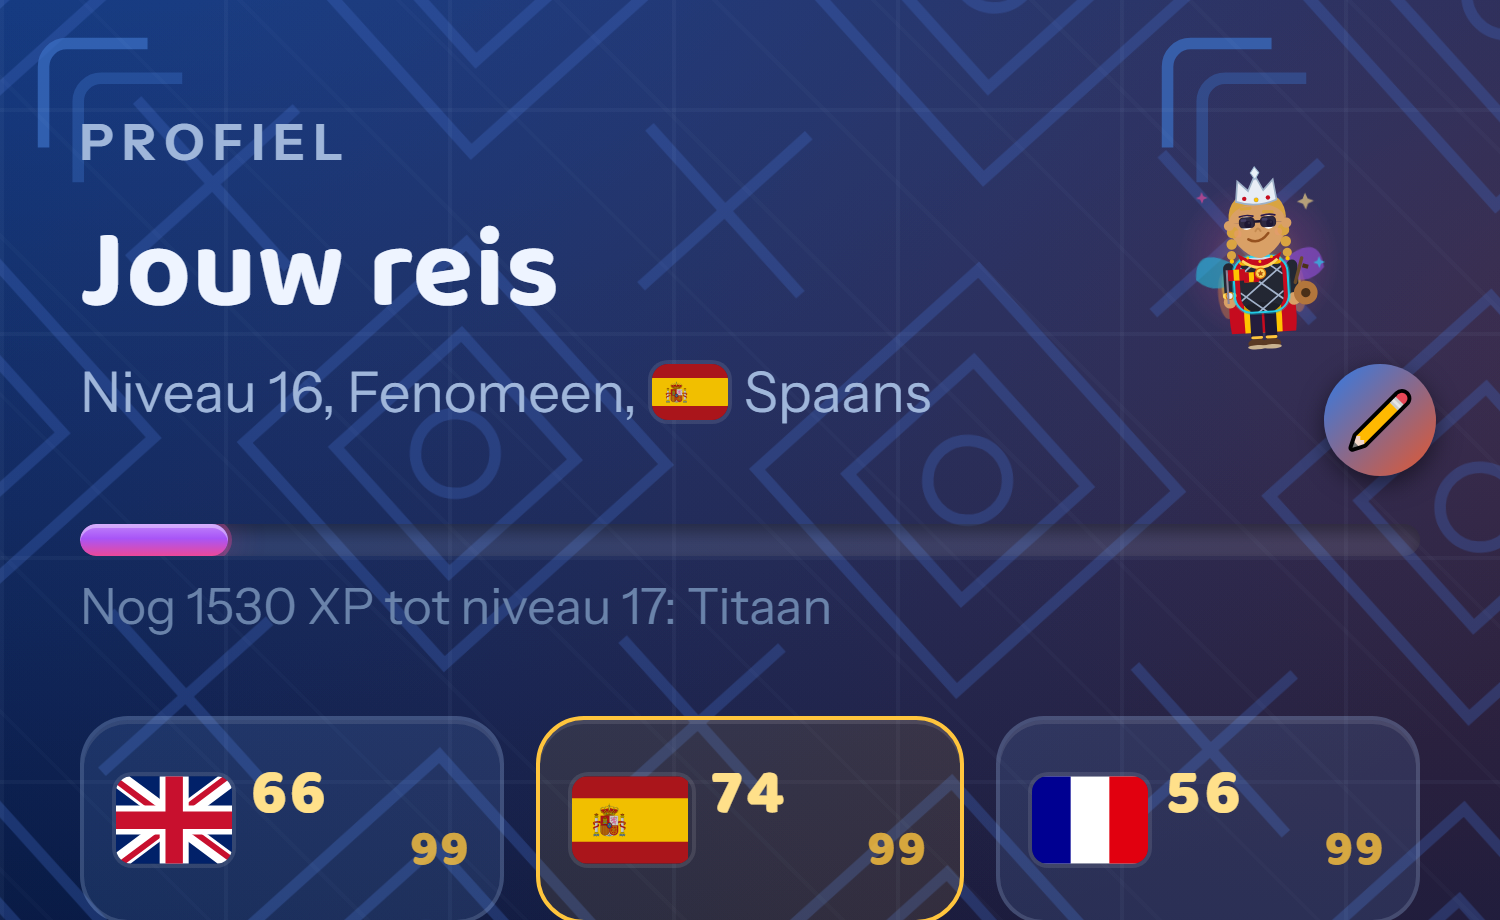
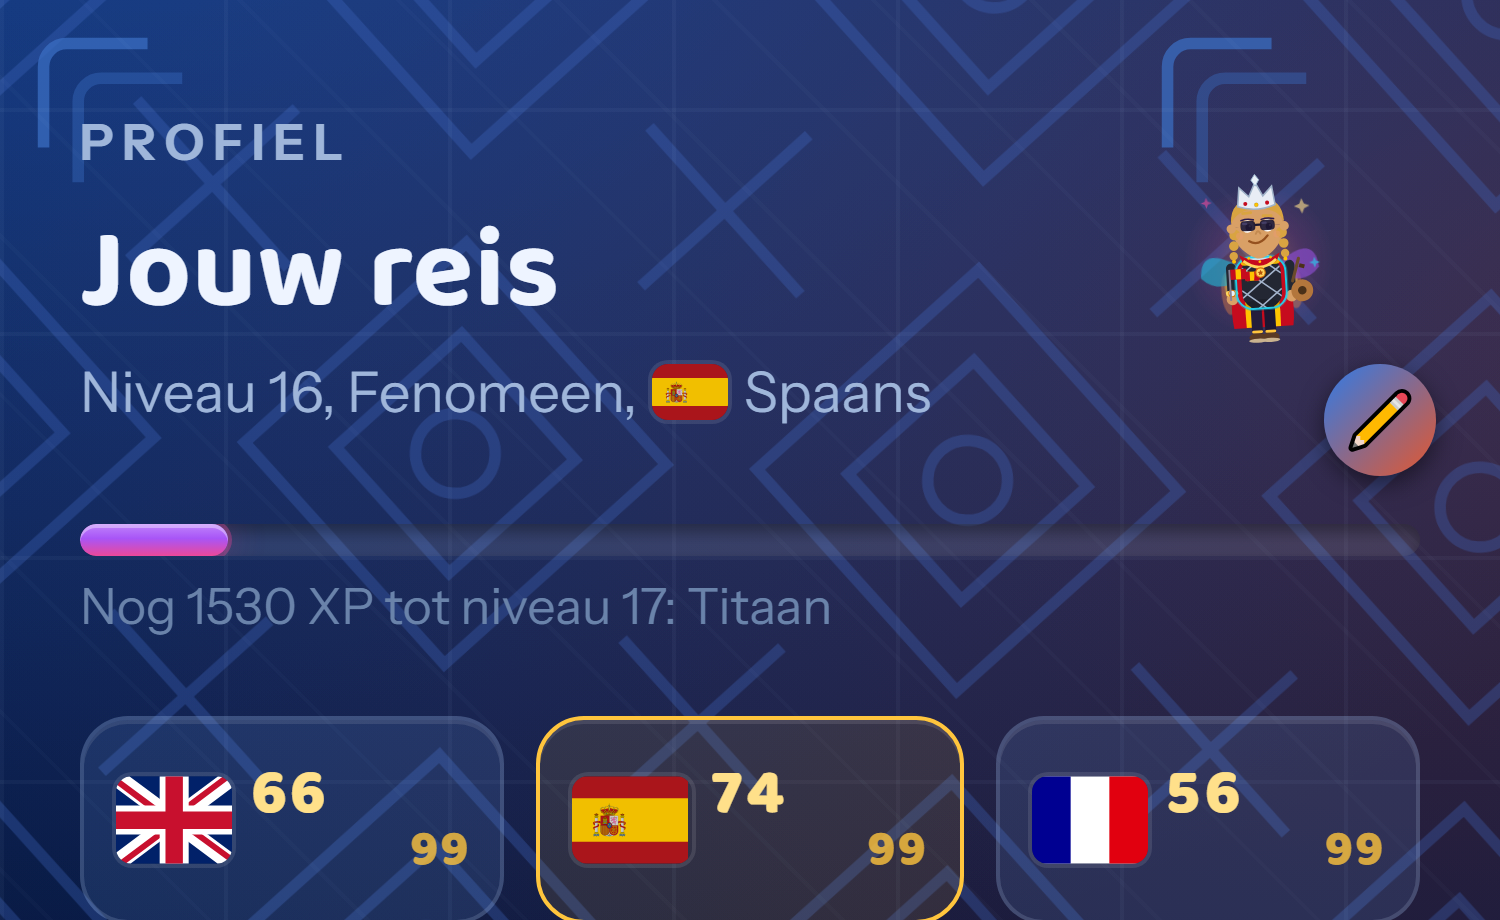
Acht groepen richtingen, en de laatste punten van het doel nagemeten
TWEE GROEPEN ERBIJ, zodat elke beslissing zijn richtingen heeft. De
personagekiezer: Raster om te vergelijken, Strook om te vegen, Groot om te
bewonderen, en de gedurfde Dobbelsteen die de rijen vervangt door één knop
die je telkens een heel nieuw personage geeft. En wat je nog niet hebt in je
garderobe: Silhouet, Nevel, Omtrek, en de gedurfde Kier waarbij een stuk
bijna helemaal verborgen blijft met één streep licht eroverheen.

Daarmee 31 richtingen over 8 groepen, elke groep met een gedurfde.

EN DE PUNTEN DIE ALLEEN BEWEERD WAREN, NU GEMETEN:

- de garderobe heeft zeven plekken, toont dertig stukken, laat zien wat je
  nog niet hebt en zegt bij elk stuk wat je ervoor moet doen
- vijf houdingen geven vijf verschillende tekeningen, te bekijken met
  ?houding=verslagen of ?houding=denk
- geen enkel rasterbeeld in de hele app: alles is svg, dus scherp op elk
  scherm
- alle zestien werelden hebben echt materiaal en geen kleurverloop
- drie spelers krijgen drie verschillende werelden, en dezelfde speler krijgt
  altijd dezelfde: een draai die per sessie verspringt zou geen eigen wereld
  zijn maar ruis

Onderweg was mijn eigen meting één keer te streng: hij rekende de vlaggen als
afbeelding, terwijl svg juist telt als tekening. Scherp op elk scherm is wat
het doel bedoelt, en dat zijn ze.

Changed region(s): [[0.7973, 0.1826, 0.8893, 0.3957]]

diff --git a/src/components/PersonaPicker.tsx b/src/components/PersonaPicker.tsx
@@ -11,6 +11,8 @@ import {
 } from './Avatar'
 import { GALERIJ } from './avatarGallery'
 import { BOUW_NAMEN, BROW_NAMEN, GEZICHT_NAMEN, NEUS_NAMEN, OOG_NAMEN } from './avatar-trekken'
+import { STANDAARD_STIJLEN, stijlUitLink } from '../stijlen'
+import { useStore } from '../store'
 import { sfx } from '../audio'
 
 /**
@@ -19,9 +21,31 @@ import { sfx } from '../audio'
  * maal acht wenkbrauwen maal acht neuzen maal acht monden maal acht bouwen.
  */
 export function PersonaPicker({ value, onChange }: { value: AvatarStyle; onChange: (p: AvatarStyle) => void }) {
+  const kiezerStijl = useStore((s) => stijlUitLink('kiezer') ?? s.stijlen.kiezer ?? STANDAARD_STIJLEN.kiezer)
   const set = (patch: Partial<AvatarStyle>) => {
     sfx('tap')
     onChange({ ...value, ...patch })
+  }
+
+  /* De dobbelsteen: één knop die een heel nieuw personage geeft. Bewust álle
+     onderdelen tegelijk, want een dobbelsteen die maar de helft gooit is geen
+     verrassing maar een storing. */
+  const gooi = () => {
+    sfx('tap')
+    const n = (max: number) => Math.floor(Math.random() * max)
+    onChange({
+      ...value,
+      face: n(8),
+      eyes: n(8),
+      brows: n(8),
+      nose: n(8),
+      mouth: n(8),
+      build: n(8),
+      hair: n(10),
+      skin: n(8),
+      hairColor: n(12),
+      outfit: n(10),
+    })
   }
 
   /**
@@ -43,11 +67,25 @@ export function PersonaPicker({ value, onChange }: { value: AvatarStyle; onChang
     /** het hele lijf laten zien in plaats van alleen het hoofd */
     heel?: boolean
   }) => (
-    <div>
+    <div style={{ display: kiezerStijl === 'dobbel' ? 'none' : undefined }}>
       <p className="eyebrow" style={{ fontSize: 11, marginBottom: 4, color: 'var(--text-faint)' }}>
         {titel}
       </p>
-      <div style={{ display: 'grid', gridTemplateColumns: 'repeat(auto-fill, minmax(60px, 1fr))', gap: 4 }}>
+      {/* Vier richtingen om dezelfde keuzes voor te leggen: een rooster om te
+          vergelijken, een strook om te vegen, groot om te bewonderen, of de
+          dobbelsteen die alles in één klap voor je kiest. */}
+      <div
+        className={kiezerStijl === 'strook' ? 'row no-scrollbar' : undefined}
+        style={
+          kiezerStijl === 'strook'
+            ? { gap: 4, overflowX: 'auto', paddingBottom: 4 }
+            : {
+                display: 'grid',
+                gridTemplateColumns: `repeat(auto-fill, minmax(${kiezerStijl === 'groot' ? 96 : 60}px, 1fr))`,
+                gap: 4,
+              }
+        }
+      >
         {namen.map((naam, i) => {
           const aan = ((value[sleutel] as number | undefined) ?? 0) === i
           return (
@@ -59,6 +97,8 @@ export function PersonaPicker({ value, onChange }: { value: AvatarStyle; onChang
               style={{
                 borderRadius: 12,
                 overflow: 'hidden',
+                flexShrink: 0,
+                minWidth: kiezerStijl === 'strook' ? 68 : undefined,
                 background: aan ? 'var(--hot-16)' : 'var(--surface-2)',
                 border: aan ? '2px solid var(--hot2)' : '1.5px solid var(--line)',
                 padding: '3px 0 2px',
@@ -253,6 +293,18 @@ export function PersonaPicker({ value, onChange }: { value: AvatarStyle; onChang
           <p className="faint" style={{ fontSize: 11, marginTop: 0 }}>
             Dit ben jij
           </p>
+          {/* De dobbelsteen, de gedurfde richting: geen rijen om door te lopen
+              maar één knop die je telkens een heel nieuw personage geeft. Wie
+              hem kiest krijgt de rijen niet meer te zien. */}
+          {kiezerStijl === 'dobbel' && (
+            <button
+              className="btn btn-primary"
+              style={{ marginTop: 8, padding: 12, fontSize: 14, minHeight: 44, maxWidth: 240 }}
+              onClick={gooi}
+            >
+              Gooi een nieuw personage
+            </button>
+          )}
         </div>
         <div className="col" style={{ gap: 8, minWidth: 0 }}>
           <div>

diff --git a/src/components/Garderobe.tsx b/src/components/Garderobe.tsx
@@ -5,6 +5,7 @@ import { isMeester, skillStand } from '../skills'
 import { levelProgress } from '../levels'
 import { KAST, PLEKKEN, heeft, kastStand, volgendStuk, type Stuk } from '../garderobe'
 import { Avatar } from './Avatar'
+import { STANDAARD_STIJLEN, stijlUitLink } from '../stijlen'
 import { sfx } from '../audio'
 
 /**
@@ -25,6 +26,7 @@ export function Garderobe() {
   const look = useStore((s) => s.avatarLook)
   const meester = useStore((s) => isMeester(s.progress[s.courseId]?.xp ?? 0))
   const taalNiveau = useStore((s) => skillStand(s.progress[s.courseId]?.xp ?? 0).level)
+  const kastStijl = useStore((s) => stijlUitLink('kast') ?? s.stijlen.kast ?? STANDAARD_STIJLEN.kast)
   const niveau = levelProgress(xpAll).level
   const stand = kastStand(niveau, meester)
   const volgende = volgendStuk(niveau, meester)
@@ -43,6 +45,7 @@ export function Garderobe() {
           border: `1.5px solid ${heb ? 'var(--line-gold)' : 'var(--line)'}`,
           padding: '4px 2px 3px',
           textAlign: 'center',
+          position: 'relative',
         }}
       >
         <div
@@ -52,8 +55,18 @@ export function Garderobe() {
             display: 'flex',
             justifyContent: 'center',
             alignItems: 'flex-start',
-            // wat je nog niet hebt is een silhouet: je ziet de vorm, niet de pracht
-            filter: heb ? undefined : 'brightness(0) opacity(0.34)',
+            /* Wat je nog niet hebt, laat zien dát het er is zonder al te
+               verklappen hoe mooi het is. Vier richtingen, want dit is precies
+               het soort beslissing waar smaak over gaat. */
+            filter: heb
+              ? undefined
+              : kastStijl === 'nevel'
+                ? 'blur(3px) grayscale(0.7) opacity(0.5)'
+                : kastStijl === 'omtrek'
+                  ? 'brightness(0) opacity(0.22) drop-shadow(0 0 1px var(--text))'
+                  : kastStijl === 'kier'
+                    ? 'brightness(0) opacity(0.12)'
+                    : 'brightness(0) opacity(0.34)',
           }}
         >
           <Avatar
@@ -65,6 +78,20 @@ export function Garderobe() {
             meester={stuk.vanaf >= 99}
           />
         </div>
+        {!heb && kastStijl === 'kier' && (
+          /* één streep licht over het verborgen stuk: je weet dat er iets is */
+          <span
+            aria-hidden
+            style={{
+              position: 'absolute',
+              left: 0,
+              right: 0,
+              top: 24,
+              height: 2,
+              background: 'linear-gradient(90deg, transparent, var(--goud-50), transparent)',
+            }}
+          />
+        )}
         <p style={{ fontSize: 11, fontWeight: 700, color: heb ? 'var(--text)' : 'var(--text-faint)', lineHeight: 1.15 }}>
           {stuk.naam}
         </p>

diff --git a/src/stijlen.ts b/src/stijlen.ts
@@ -62,7 +62,23 @@ export const GROEI_STIJLEN: Richting[] = [
   { id: 'omslag', naam: 'Omslag', kern: 'Het scherm klapt om als een tegel en de nieuwe wereld staat er', gedurfd: true },
 ]
 
-export type StijlSleutel = 'xp' | 'levelup' | 'arena' | 'breuk' | 'materiaal' | 'groei'
+/** Hoe de personagekiezer zijn keuzes voorlegt */
+export const KIEZER_STIJLEN: Richting[] = [
+  { id: 'raster', naam: 'Raster', kern: 'Alle varianten in een rooster, zodat je in één blik vergelijkt' },
+  { id: 'strook', naam: 'Strook', kern: 'Per trek één rij die je opzij veegt, rustiger en minder hoog' },
+  { id: 'groot', naam: 'Groot', kern: 'Minder tegels naast elkaar, maar elk gezicht flink groter' },
+  { id: 'dobbel', naam: 'Dobbelsteen', kern: 'Geen rijen maar één knop die je telkens een heel nieuw personage geeft', gedurfd: true },
+]
+
+/** Hoe je ziet wat je nog niet verdiend hebt in de garderobe */
+export const KAST_STIJLEN: Richting[] = [
+  { id: 'silhouet', naam: 'Silhouet', kern: 'Zwart silhouet: je ziet de vorm, niet de pracht' },
+  { id: 'nevel', naam: 'Nevel', kern: 'Wazig en bleek, alsof het er al hangt maar nog niet scherp is' },
+  { id: 'omtrek', naam: 'Omtrek', kern: 'Alleen de contour, als een tekening die nog moet worden ingekleurd' },
+  { id: 'kier', naam: 'Kier', kern: 'Bijna helemaal verborgen, met één streep licht eroverheen', gedurfd: true },
+]
+
+export type StijlSleutel = 'xp' | 'levelup' | 'arena' | 'breuk' | 'materiaal' | 'groei' | 'kiezer' | 'kast'
 
 export const STANDAARD_STIJLEN: Record<StijlSleutel, string> = {
   xp: 'klassiek',
@@ -71,6 +87,8 @@ export const STANDAARD_STIJLEN: Record<StijlSleutel, string> = {
   breuk: 'scherven',
   materiaal: 'waas',
   groei: 'aangroeien',
+  kiezer: 'raster',
+  kast: 'silhouet',
 }
 
 /** Een stijl uit de link halen, om te proeven of vast te leggen */

diff --git a/src/components/StijlKiezer.tsx b/src/components/StijlKiezer.tsx
@@ -5,6 +5,8 @@ import {
   ARENA_STIJLEN,
   BREUK_STIJLEN,
   GROEI_STIJLEN,
+  KAST_STIJLEN,
+  KIEZER_STIJLEN,
   LEVELUP_STIJLEN,
   MATERIAAL_STIJLEN,
   STANDAARD_STIJLEN,
@@ -22,7 +24,7 @@ import { sfx } from '../audio'
  * moment af zodat je het ziet voordat je kiest.
  */
 
-type Sleutel = 'xp' | 'levelup' | 'arena' | 'breuk' | 'materiaal' | 'groei'
+type Sleutel = 'xp' | 'levelup' | 'arena' | 'breuk' | 'materiaal' | 'groei' | 'kiezer' | 'kast'
 
 const GROEPEN: { sleutel: Sleutel; titel: string; uitleg: string; opties: Richting[] }[] = [
   { sleutel: 'xp', titel: 'De XP-drop', uitleg: 'Wat je ziet na elk goed antwoord', opties: XP_STIJLEN },
@@ -31,6 +33,8 @@ const GROEPEN: { sleutel: Sleutel; titel: string; uitleg: string; opties: Richti
   { sleutel: 'arena', titel: 'De arena-opkomst', uitleg: 'Hoe het gevecht zich opent', opties: ARENA_STIJLEN },
   { sleutel: 'materiaal', titel: 'Het materiaal', uitleg: 'Hoe de muur van jouw taalwereld op het scherm ligt', opties: MATERIAAL_STIJLEN },
   { sleutel: 'groei', titel: 'De wereldgroei', uitleg: 'Wat er gebeurt als je wereld een trede voller wordt', opties: GROEI_STIJLEN },
+  { sleutel: 'kiezer', titel: 'De personagekiezer', uitleg: 'Hoe de kiezer zijn varianten voorlegt', opties: KIEZER_STIJLEN },
+  { sleutel: 'kast', titel: 'Wat je nog niet hebt', uitleg: 'Hoe een stuk uit je garderobe eruitziet voordat je het verdient', opties: KAST_STIJLEN },
 ]
 
 export function StijlKiezer() {

diff --git a/src/screens/Profile.tsx b/src/screens/Profile.tsx
@@ -25,6 +25,14 @@ export function ProfileScreen() {
   const [skillsOpen, setSkillsOpen] = useState(false)
   /** aangetikt stadium in de evolutierij */
   const [toonNiveau, setToonNiveau] = useState<number | null>(null)
+  const houdingUitLink = ((): 'idle' | 'run' | 'cheer' | 'verslagen' | 'denk' => {
+    try {
+      const h = new URLSearchParams(window.location.search).get('houding')
+      return h === 'run' || h === 'cheer' || h === 'verslagen' || h === 'denk' ? h : 'idle'
+    } catch {
+      return 'idle'
+    }
+  })()
 
   if (view === 'badges') {
     return (
@@ -59,7 +67,17 @@ export function ProfileScreen() {
           aria-label="Personage aanpassen"
           style={{ position: 'relative' }}
         >
-          <Avatar size={80} mode="idle" level={lp.level} courseId={state.courseId} look={state.avatarLook} meester={isMeester(progress.xp)} />
+          {/* ?houding=verslagen laat elke houding zien zonder ervoor te hoeven
+              verliezen of rennen. Zonder zo'n link is een houding alleen op
+              het juiste moment te betrappen, en dus niet te vergelijken. */}
+          <Avatar
+            size={80}
+            mode={houdingUitLink}
+            level={lp.level}
+            courseId={state.courseId}
+            look={state.avatarLook}
+            meester={isMeester(progress.xp)}
+          />
           <span
             style={{
               position: 'absolute',
